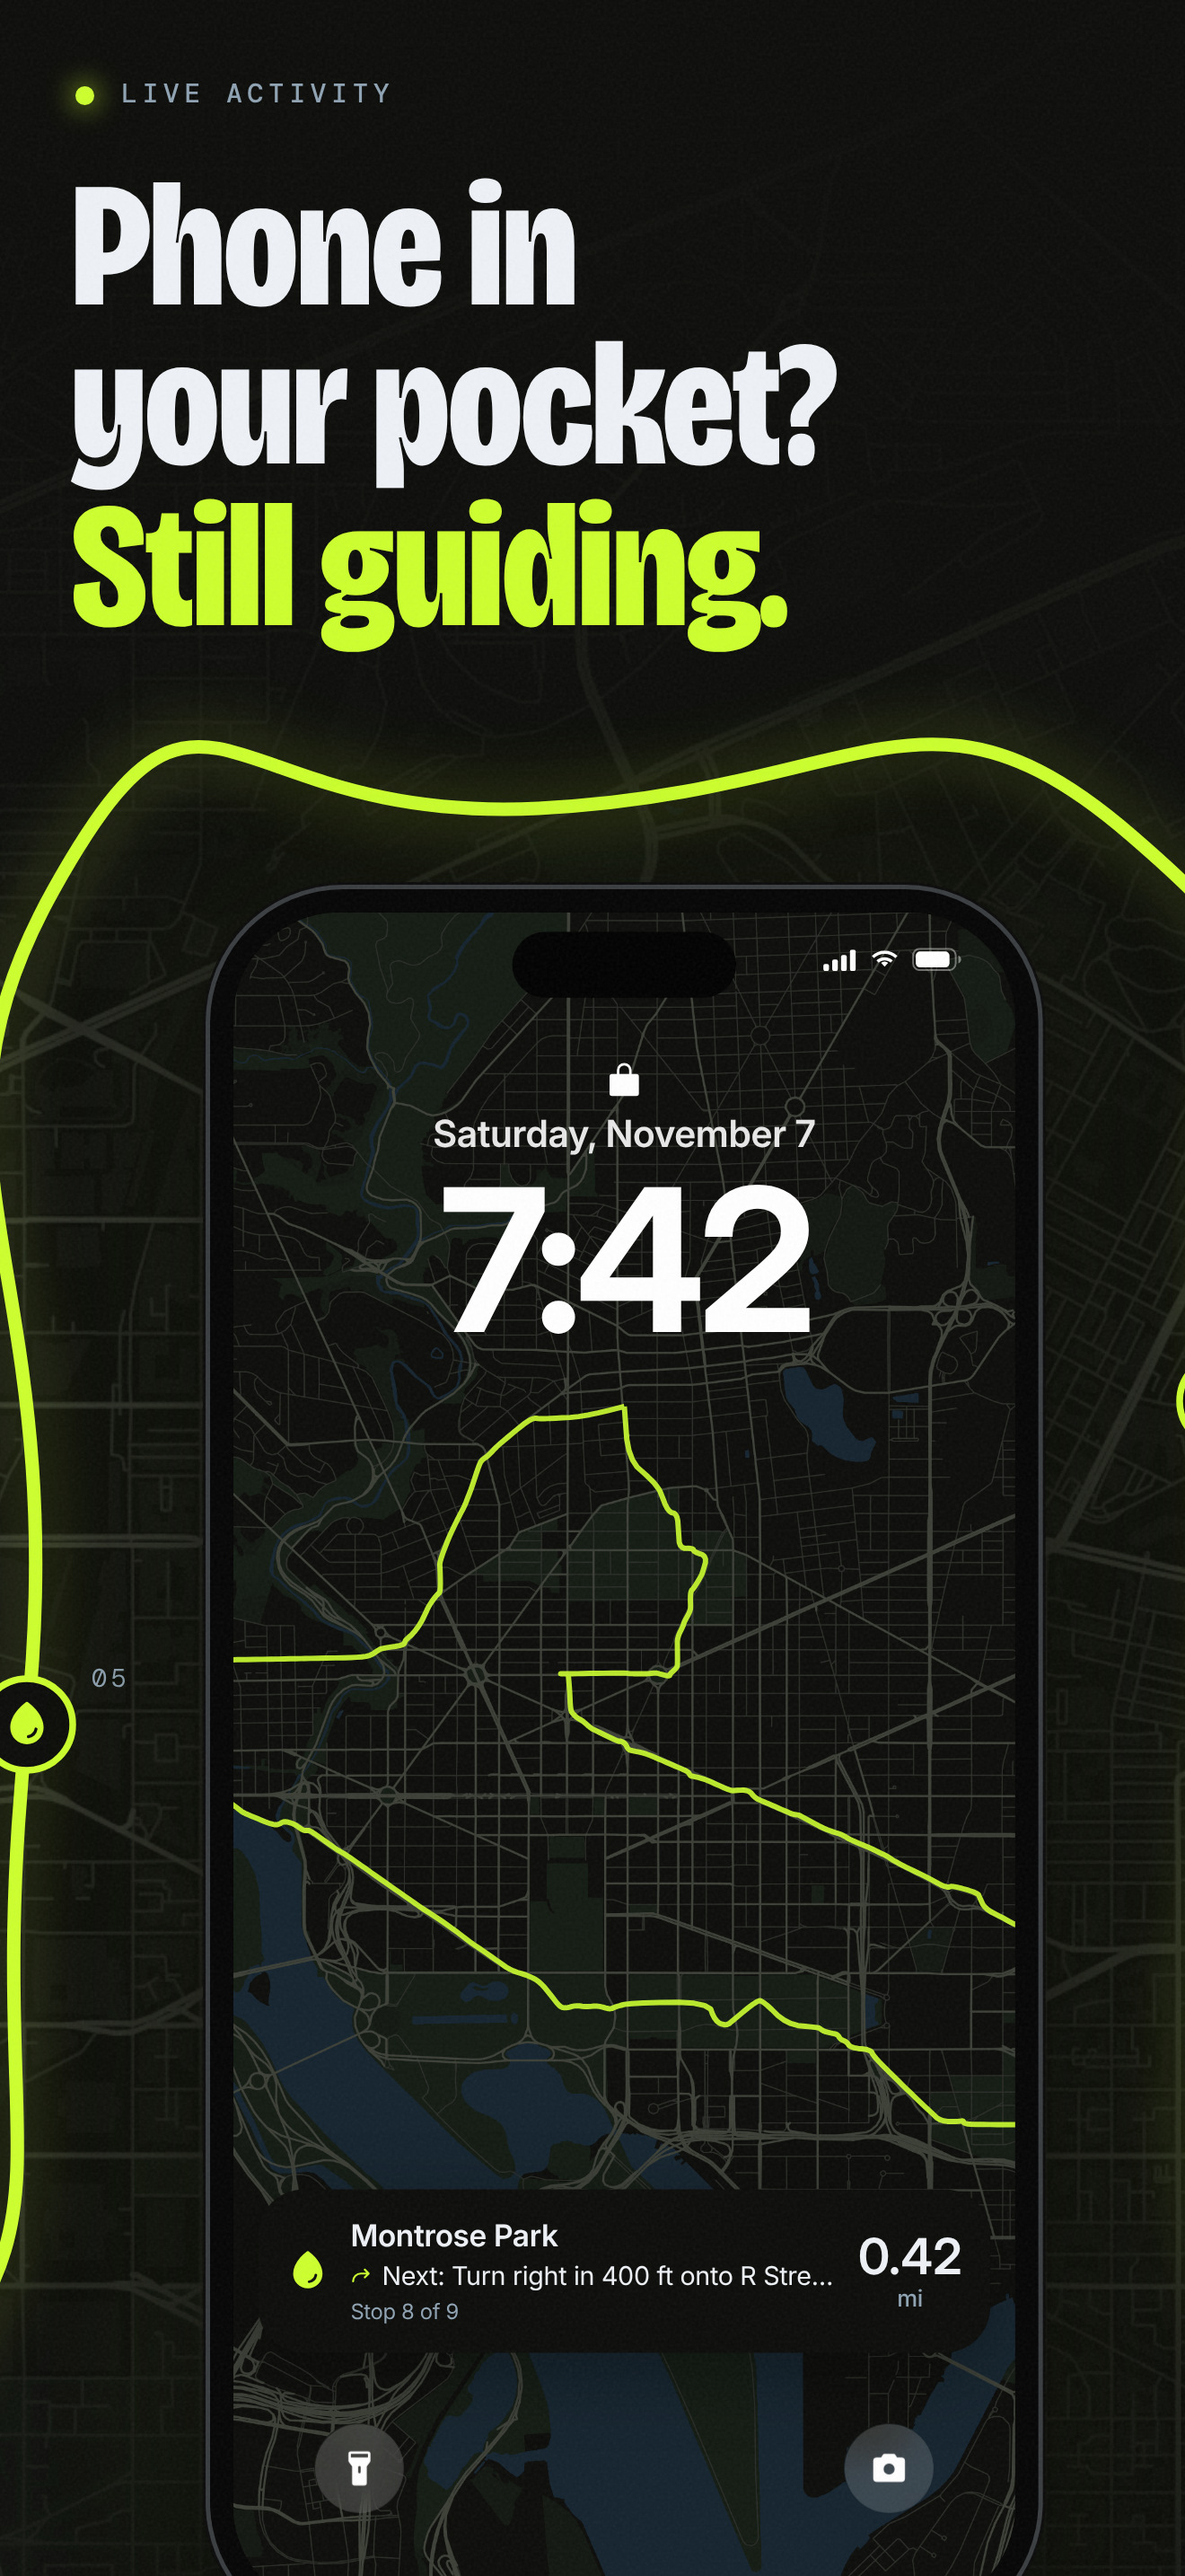
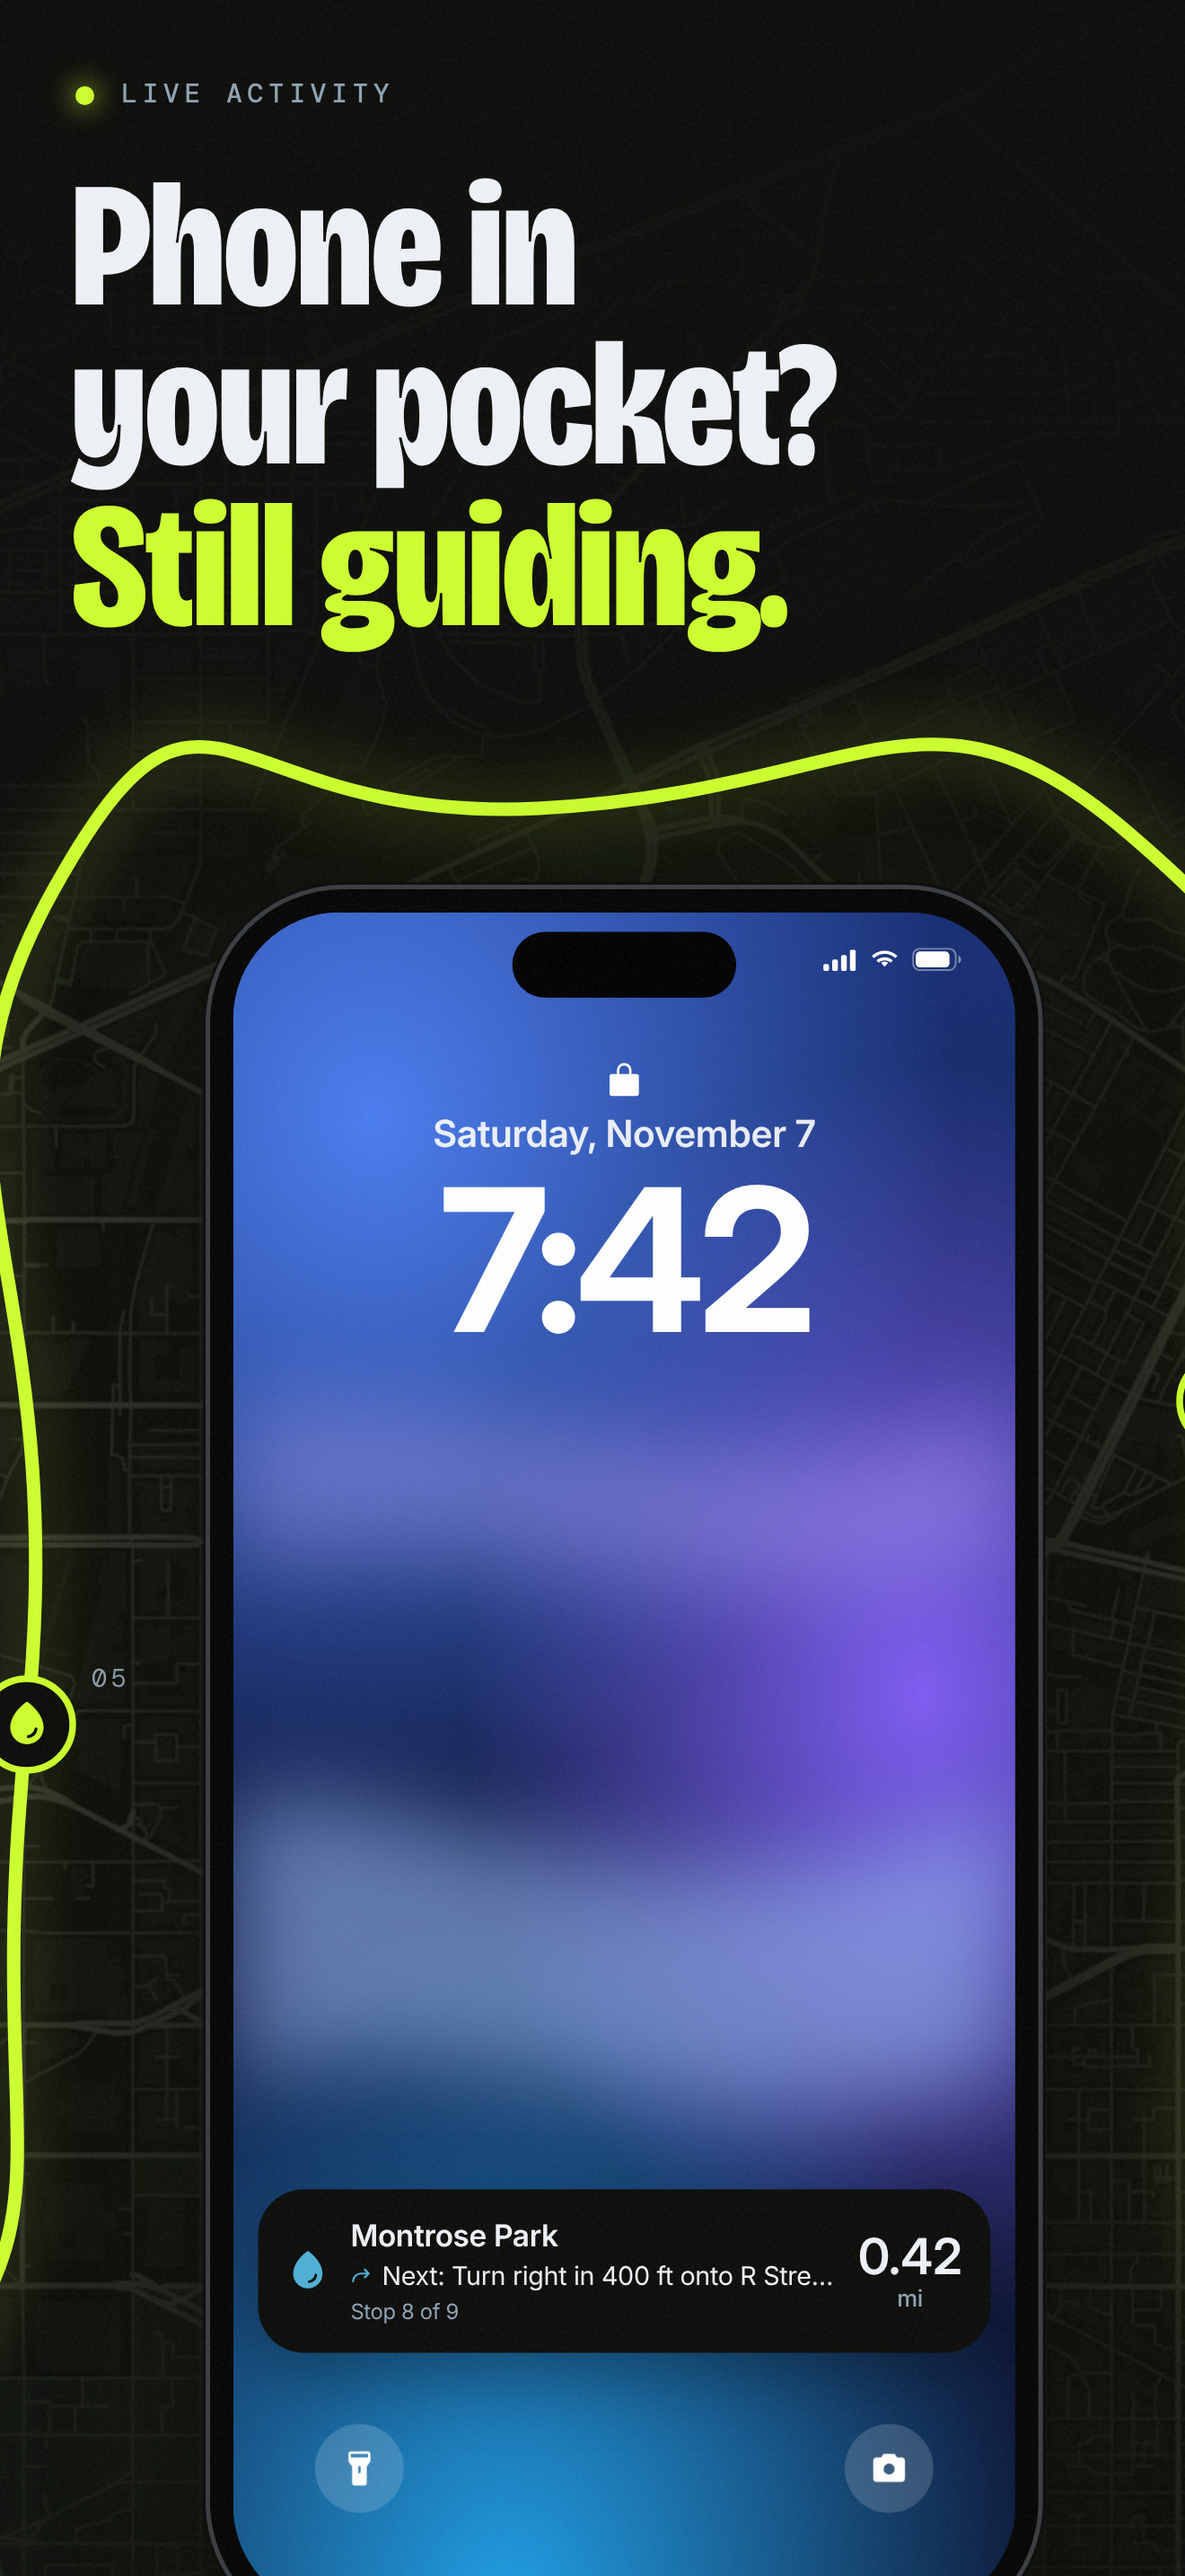
feat(marketing): neutral Lock Screen, blue Live Activity, simpler Public Works
- The Lock Screen frame in every set now sits on a plain iOS-style gradient
  wallpaper instead of a map, so the map can't be mistaken for something
  the app draws there, and the Live Activity's drop and turn arrow are blue
  instead of lime.
- Public Works drops the chalked logo from its first frame and the
  Working / Problem plaques under the work-zone sign.

Claude-Session: https://claude.ai/code/session_01A6NDPjtjuAxZPuc27tkg3H

diff --git a/marketing/app-store/src/public-works.html b/marketing/app-store/src/public-works.html
@@ -9,8 +9,7 @@
      Fountains are civic infrastructure, so the store page speaks the street's
      own language: US road-sign conventions (blue = services, yellow = warning,
      orange = work zone, brown = recreation), set in Overpass — the open face
-     drawn from Highway Gothic — on pale sidewalk concrete, with the
-     hand-painted logo chalked onto the slabs. */
+     drawn from Highway Gothic — on pale sidewalk concrete. */
       :root {
         --concrete: #dedad2;
         --joint: #b8b2a5;
@@ -19,7 +18,6 @@
         --work: #f37021;
         --rec: #5e3a1e;
         --guide: #006b3f;
-        --chalk: #3f83c2;
       }
       body {
         position: relative;
@@ -106,7 +104,7 @@
   <body>
     <script type="module">
       import * as S from "./screens.js";
-      import { defs, device, grain, lanes, routePx, smooth } from "./art.js";
+      import { defs, device, grain } from "./art.js";
 
       const d = await S.loadData("..");
 
@@ -141,9 +139,9 @@
       // runs off the top edge. "over": signs above, the phone below them.
       // Pick one with ?layout=…
       const LAYOUTS = {
-        under: { phone: { x: 80, y: 22, scale: 0.6 }, signs: 590, logo: [352, 840] },
-        "under-big": { phone: { x: 66, y: -46, scale: 0.66 }, signs: 586, logo: [352, 836] },
-        over: { phone: null, signs: 0, logo: [352, 250] },
+        under: { phone: { x: 80, y: 22, scale: 0.6 }, signs: 590 },
+        "under-big": { phone: { x: 66, y: -46, scale: 0.66 }, signs: 586 },
+        over: { phone: null, signs: 0 },
       };
       const L = LAYOUTS[new URLSearchParams(location.search).get("layout")] ?? LAYOUTS.under;
       // The phone marks its own markup, so each frame can be split into the
@@ -204,10 +202,6 @@
      <div class="small" style="font-size:20px">Fountain check</div>
      <div class="legend" style="font-size:50px;margin-top:6px">Easy<br>updates</div>
    </div>
-   <div style="position:absolute;left:40px;top:236px;width:360px;display:flex;gap:12px;z-index:5">
-     <div class="sign flat" style="position:relative;flex:1;background:#15803d;padding:15px 0 11px;text-align:center"><span class="legend" style="font-size:24px">Working</span></div>
-     <div class="sign flat" style="position:relative;flex:1;background:#fff;color:#111;padding:15px 0 11px;text-align:center"><span class="legend" style="font-size:24px">Problem</span></div>
-   </div>
    ${phone(S.surveySheet(d), 330)}`,
 
         // 5 — the regulatory sign
@@ -217,17 +211,7 @@
      <div class="legend" style="font-size:50px">On lock<br>screen</div>
      <div class="small" style="font-size:13.5px;color:#444;white-space:nowrap">Live Activity + Dynamic Island</div>
    </div>
-   ${phone(
-     S.lockScreen(d, {
-       wallpaper: `<img class="map" src="../assets/maps/enamel-street.png"><svg class="overlay" viewBox="0 0 440 956"><path d="${smooth(
-         routePx(d.maps["enamel-street"], d.run.trace),
-         2,
-       )
-         .map(([x, y], i) => `${i ? "L" : "M"}${x} ${y}`)
-         .join("")}" fill="none" stroke="#ffc61a" stroke-width="4" stroke-linejoin="round"/></svg>`,
-     }),
-     360,
-   )}`,
+   ${phone(S.lockScreen(d), 360)}`,
 
         // 6 — the recreation sign
         `${post(220, 260)}
@@ -239,8 +223,7 @@
    ${phone(S.recap(d), 380)}`,
       ];
 
-      // Sidewalk: slab joints running the whole panorama, and the logo chalked on
-      // a slab beside the first sign's plaque.
+      // Sidewalk: slab joints running the whole panorama.
       const slab = 147;
       const joints = `
   <svg class="layer" viewBox="0 0 2640 956" style="z-index:1">
@@ -250,7 +233,6 @@
 
       document.body.innerHTML = `${defs()}
   ${joints}
-  <img src="../assets/logo-ink.png" style="position:absolute;left:${L.logo[0]}px;top:${L.logo[1]}px;width:78px;z-index:2;mix-blend-mode:multiply;opacity:.78;transform:rotate(-9deg);filter:url(#brush)">
   ${frames.map((f, i) => `<section class="frame" style="left:${i * 440}px;z-index:3">${compose(f)}</section>`).join("")}
   <div class="layer" style="z-index:9;pointer-events:none">${grain(0.3).replace('viewBox="0 0 440 956"', 'viewBox="0 0 2640 956"').replace('<rect width="440"', '<rect width="2640"')}</div>`;
       await document.fonts.ready;

diff --git a/marketing/app-store/src/screens.js b/marketing/app-store/src/screens.js
@@ -311,7 +311,27 @@ export function surveySheet(d) {
 }
 
 // Lock Screen with the run's Live Activity, later in the same run.
-export function lockScreen(d, { wallpaper = "", ink = "#fff", activity = {} } = {}) {
+// A plain, iOS-style abstract wallpaper: soft blue and violet light, nothing
+// that could be mistaken for something the app draws. Drawn here rather than
+// taken from Apple's own wallpapers, which are Apple's artwork.
+export const WALLPAPER = `
+  <div style="position:absolute;inset:0;background:
+    radial-gradient(120% 65% at 18% 12%, #4a7df0 0%, rgba(74,125,240,0) 62%),
+    radial-gradient(95% 60% at 88% 46%, #7d5cf2 0%, rgba(125,92,242,0) 62%),
+    radial-gradient(120% 70% at 35% 100%, #1d9fe6 0%, rgba(29,159,230,0) 58%),
+    linear-gradient(170deg, #17307a 0%, #101d4a 55%, #0a1230 100%)"></div>
+  <svg class="overlay" viewBox="0 0 440 956" style="filter:blur(26px);opacity:.55">
+    <path d="M-60 520 C 80 430, 220 640, 500 470 L 500 620 C 260 760, 120 560, -60 690 Z" fill="#9fc3ff"/>
+    <path d="M-60 300 C 120 220, 260 380, 500 250 L 500 330 C 300 450, 120 300, -60 390 Z" fill="#b9a6ff" opacity=".7"/>
+  </svg>`;
+
+// Accent on the Live Activity's drop and turn arrow.
+export const ACTIVITY_ACCENT = "#4fafd4";
+
+export function lockScreen(
+  d,
+  { wallpaper = WALLPAPER, ink = "#fff", activity = {}, accent = ACTIVITY_ACCENT } = {},
+) {
   const a = {
     stop: "Montrose Park",
     dist: "0.42",
@@ -329,10 +349,10 @@ export function lockScreen(d, { wallpaper = "", ink = "#fff", activity = {} } = 
       <div class="tnum" style="font:700 112px/112px Inter;letter-spacing:-0.04em;margin-top:2px;font-stretch:90%">7:42</div>
     </div>
     <div style="position:absolute;left:14px;right:14px;bottom:146px;border-radius:26px;background:#0c0d0a;padding:16px;display:flex;align-items:center;gap:12px;z-index:6;box-shadow:0 12px 40px rgba(0,0,0,.35)">
-      ${icon("drop", 24, "#ccff2e", "fill")}
+      ${icon("drop", 24, accent, "fill")}
       <div style="flex:1;display:flex;flex-direction:column;gap:4px;min-width:0">
         <div style="font:600 17px Inter;color:#eef2f6">${a.stop}</div>
-        <div style="display:flex;align-items:center;gap:6px">${icon("arrow-bend-up-right", 15, "#ccff2e")}<span style="font:400 14.5px Inter;color:#eef2f6;white-space:nowrap;overflow:hidden;text-overflow:ellipsis">Next: ${a.turn}</span></div>
+        <div style="display:flex;align-items:center;gap:6px">${icon("arrow-bend-up-right", 15, accent)}<span style="font:400 14.5px Inter;color:#eef2f6;white-space:nowrap;overflow:hidden;text-overflow:ellipsis">Next: ${a.turn}</span></div>
         <div style="font:400 12px Inter;color:#8fa3b3">${a.of}</div>
       </div>
       <div style="text-align:center;min-width:56px">

diff --git a/marketing/app-store/src/night-shift.html b/marketing/app-store/src/night-shift.html
@@ -82,7 +82,7 @@
   <body>
     <script type="module">
       import * as S from "./screens.js";
-      import { curve, defs, device, grain, lanes, routePx, smooth } from "./art.js";
+      import { curve, defs, device, grain } from "./art.js";
 
       const d = await S.loadData("..");
 
@@ -144,13 +144,6 @@
   <svg class="layer" viewBox="0 0 2640 956" style="z-index:2">${drops.map((p, i) => drop(p, i + 1)).join("")}</svg>`;
 
       const glow = "0 30px 80px rgba(0,0,0,.65), 0 0 120px rgba(204,255,46,.08)";
-      const nightLock = () => {
-        const v = d.maps["night-tall"];
-        const pts = smooth(routePx(v, d.run.trace), 2);
-        return S.lockScreen(d, {
-          wallpaper: `<img class="map" src="../assets/maps/night-tall.png"><svg class="overlay" viewBox="0 0 440 956"><path d="${pts.map(([x, y], i) => `${i ? "L" : "M"}${x} ${y}`).join("")}" fill="none" stroke="#ccff2e" stroke-width="3" stroke-linejoin="round" opacity=".9"/></svg>`,
-        });
-      };
       const kick = (t) => `<div class="kicker"><i></i>${t}</div>`;
 
       const frames = [
@@ -168,7 +161,7 @@
    ${device(S.surveySheet(d), { x: 70, y: 300, scale: 0.66, glow })}`,
         `${kick("Live Activity")}
    <h1 style="top:62px">Phone in your pocket? <b>Still guiding.</b></h1>
-   ${device(nightLock(), { x: 78, y: 330, scale: 0.66, glow })}`,
+   ${device(S.lockScreen(d), { x: 78, y: 330, scale: 0.66, glow })}`,
         `${kick("Open data")}
    <h1 style="top:62px"><b>8 of 9</b> checked. The map’s better for it.</h1>
    ${device(S.recap(d), { x: 66, y: 330, scale: 0.66, glow })}

diff --git a/marketing/app-store/src/field-notes.html b/marketing/app-store/src/field-notes.html
@@ -106,10 +106,8 @@
       import { defs, grain, lanes, place, routePx, smooth } from "./art.js";
 
       const d = await S.loadData("..");
-      const loop = d.maps["paper-loop"],
-        street = d.maps["paper-street"];
+      const loop = d.maps["paper-loop"];
       const loopPts = smooth(routePx(loop, d.run.trace), 2);
-      const streetPts = smooth(routePx(street, d.run.trace), 2);
       const shadow =
         "0 1px 1px rgba(60,48,24,.25), 0 22px 44px -10px rgba(60,48,24,.38), 0 50px 90px -30px rgba(11,47,85,.35)";
       const folio = (n) =>
@@ -183,13 +181,7 @@
    ${fade}
    ${folio(5)}
    <h1 style="top:62px">Directions stay <em>on your Lock Screen.</em></h1>
-   ${place(
-     S.lockScreen(d, {
-       ink: "#0b2f55",
-       wallpaper: `<div style="position:absolute;inset:0;background:#f7f2e8"></div><img class="map" src="../assets/maps/paper-street.png" style="opacity:.8">${svg(lanes(streetPts, { n: 7, gap: 3.4, width: 2.2, seed: 2 }))}`,
-     }),
-     { x: 64, y: 300, scale: 0.71, rotate: -2, radius: 52, shadow },
-   )}
+   ${place(S.lockScreen(d), { x: 64, y: 300, scale: 0.71, rotate: -2, radius: 52, shadow })}
    <div class="note mono" style="left:24px;top:258px;color:var(--ink)">Live Activity · Dynamic Island</div>
    ${grain(0.22)}`,
 

diff --git a/marketing/app-store/src/screens-preview.html b/marketing/app-store/src/screens-preview.html
@@ -22,7 +22,7 @@
         S.planner(d),
         S.runScreen(d),
         S.surveySheet(d),
-        S.lockScreen(d, { wallpaper: `<img class="map" src="../assets/maps/night-tall.png">` }),
+        S.lockScreen(d),
         S.recap(d),
       ].join("");
       await document.fonts.ready;
